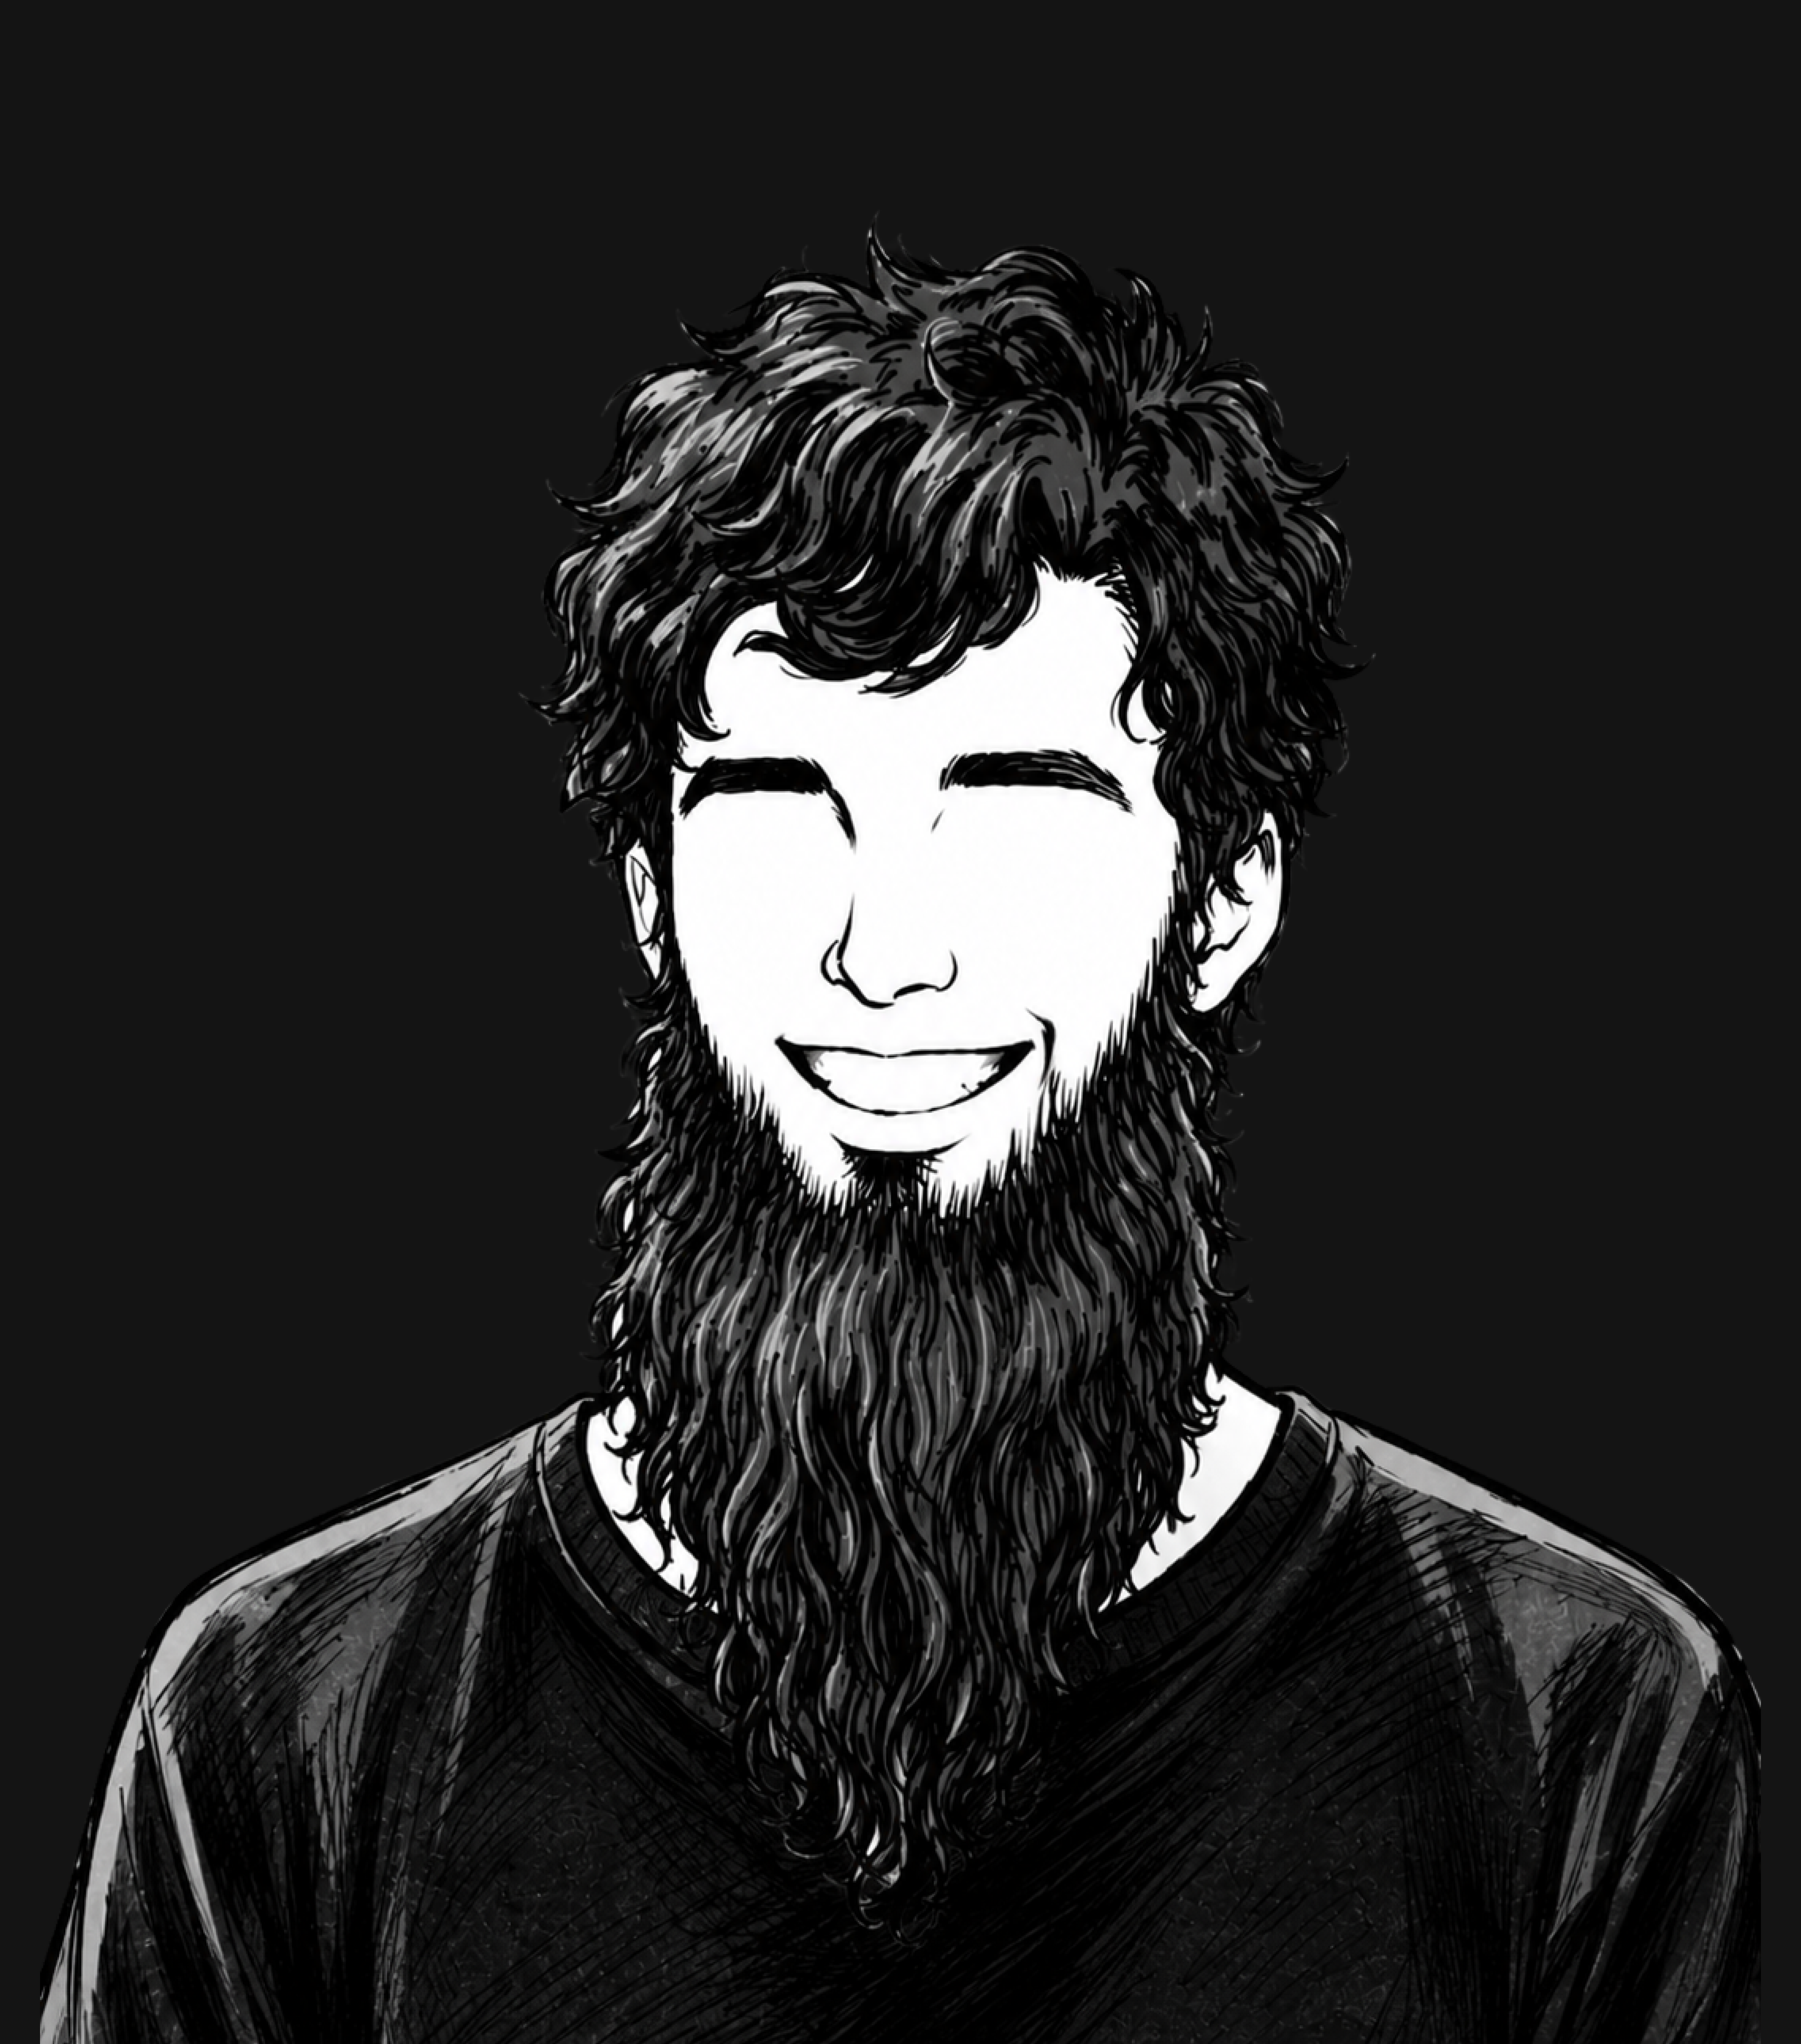
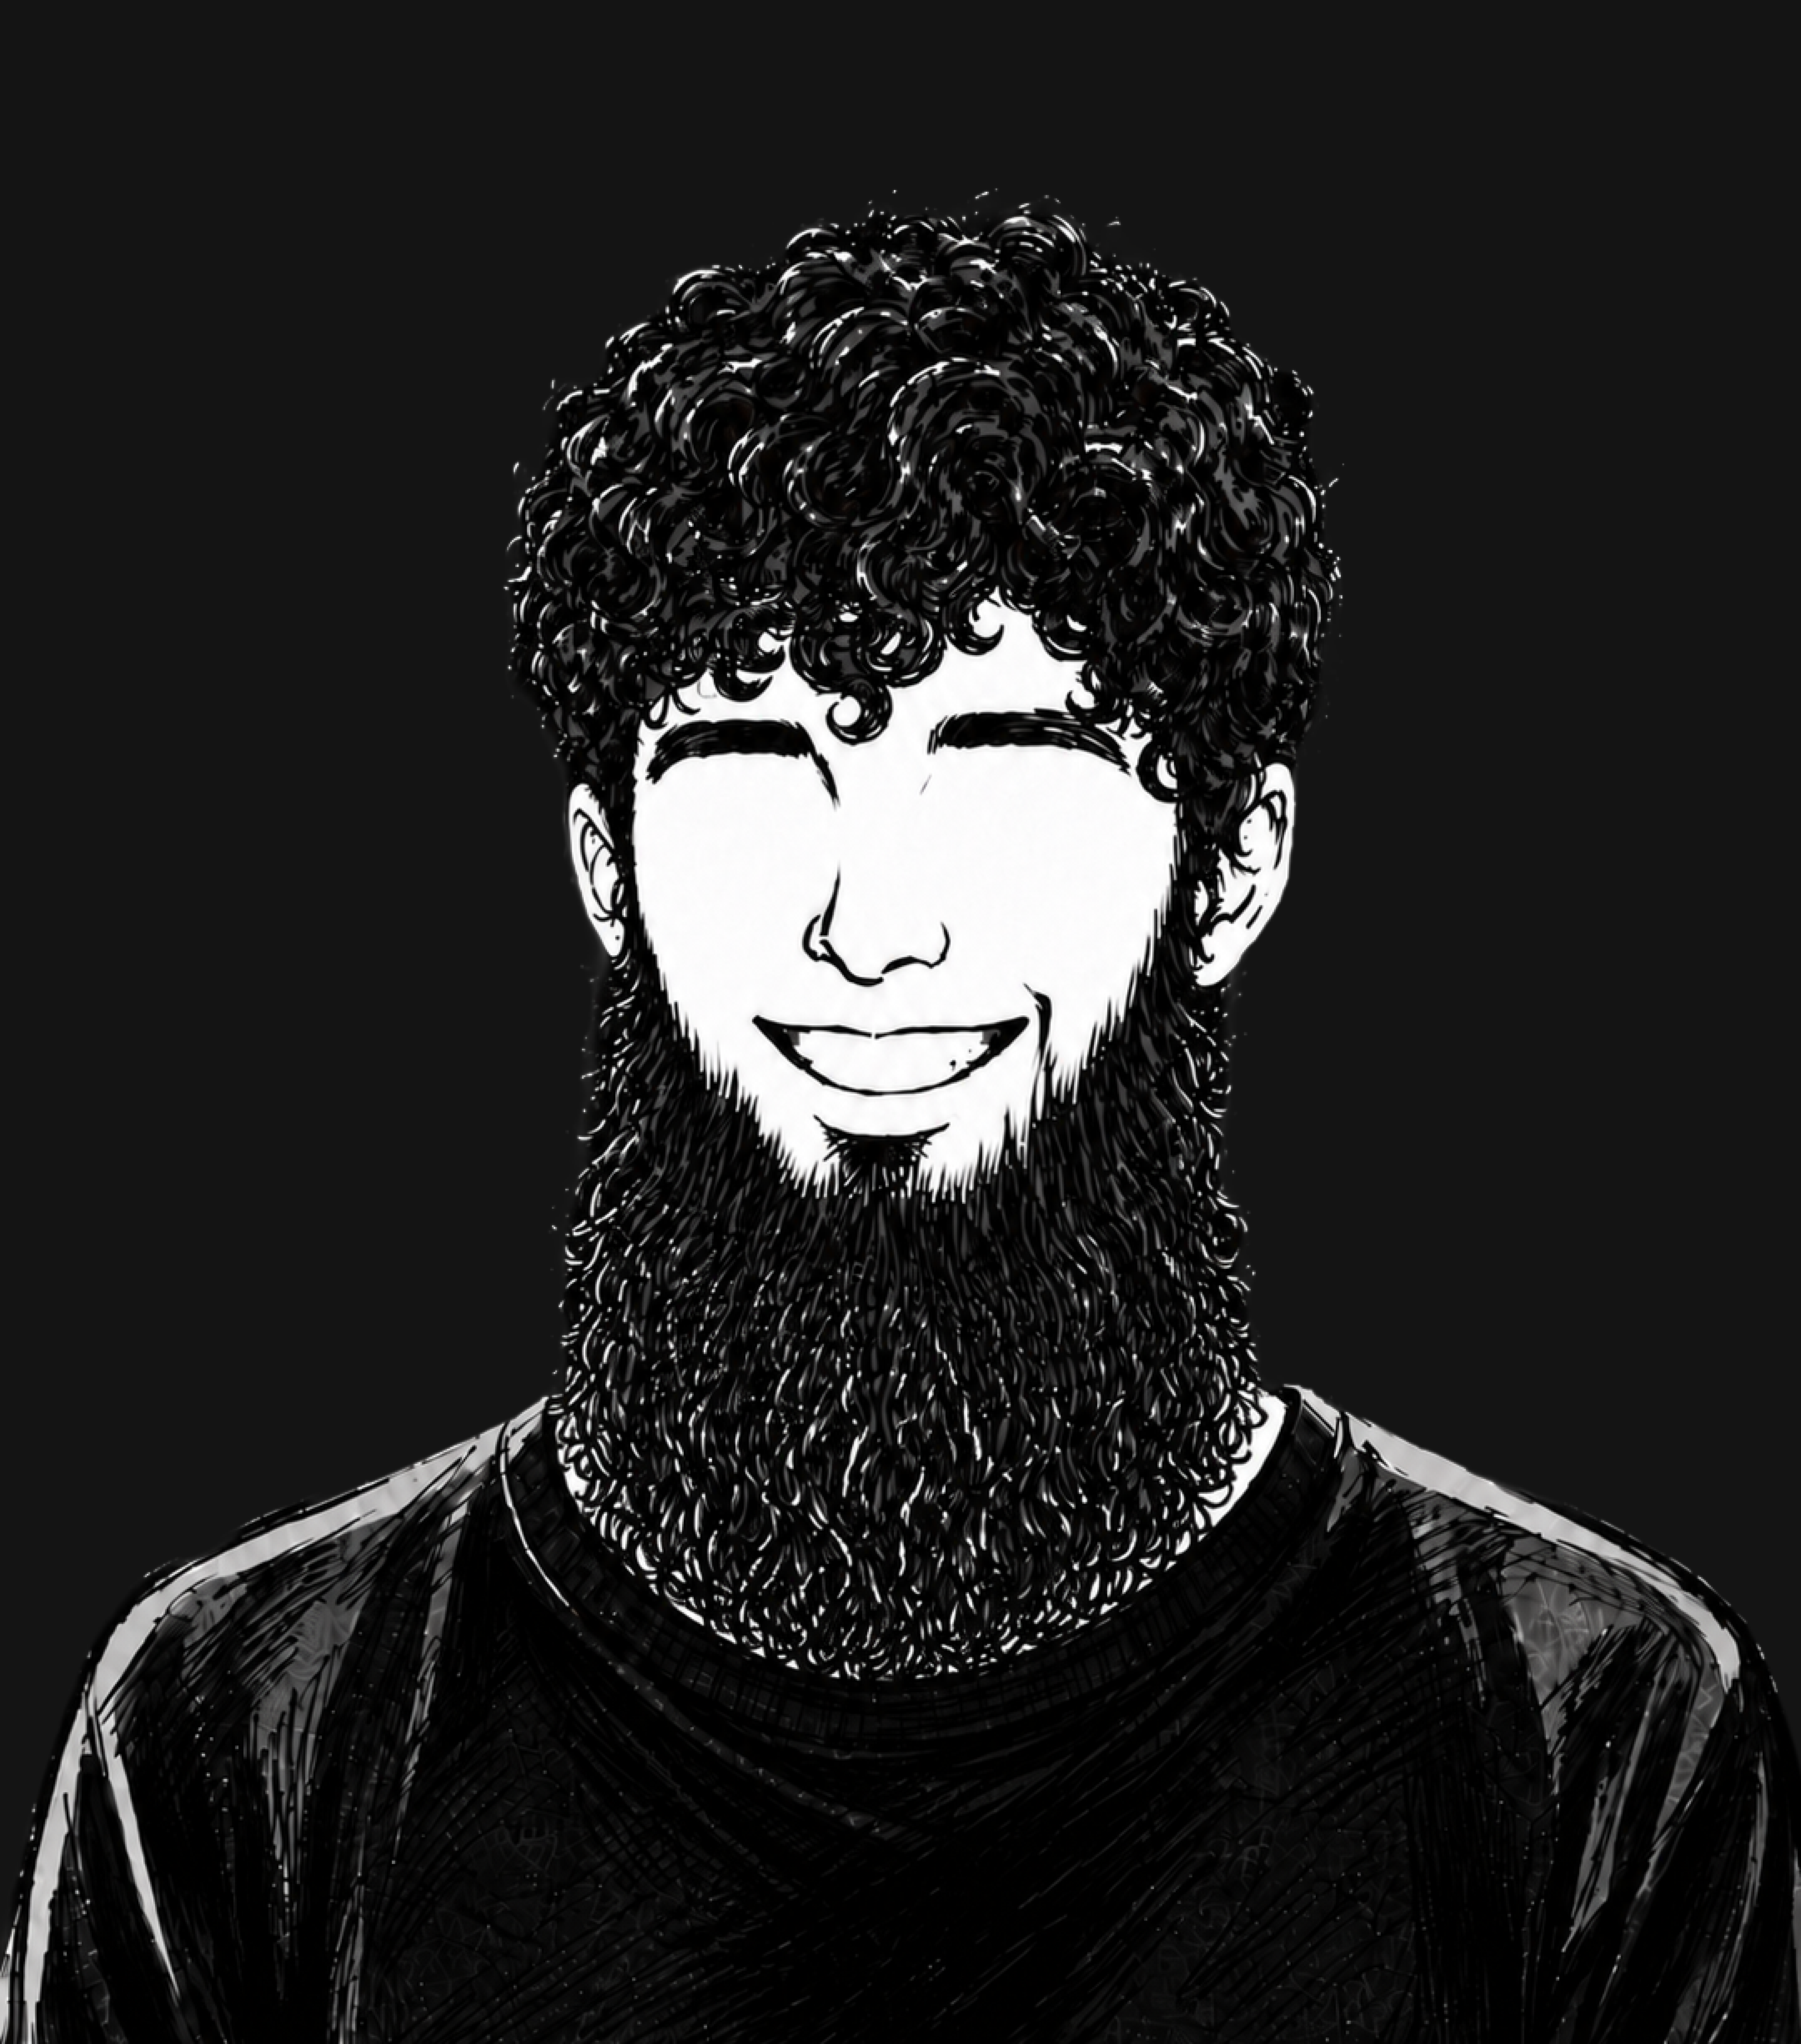
Update Faraz team photo to v2 + bust the browser cache
Swap public/images/team/Faraz.png with the newer image from
7. Team image/Faraz v2.png (3.6MB → 1.7MB) and append ?v=2 to the
component's photo URL so browsers refetch instead of serving the
stale cached image.

Changed region(s): [[0.0, 0.0936, 1.0, 1.0], [0.375, 0.936, 0.4062, 0.9672], [0.3125, 0.9984, 0.3438, 1.0]]

diff --git a/components/AboutTeam.tsx b/components/AboutTeam.tsx
@@ -17,7 +17,7 @@ type Member = {
 const TEAM: Member[] = [
   {
     idx: '01', name: 'Muhammed Faraz Faizal', role: 'CHIEF BRAND OFFICER',
-    photo: '/images/team/Faraz.png', clearance: 'LVL-04', idNo: 'OTB-CBO-001', dept: 'BRAND',
+    photo: '/images/team/Faraz.png?v=2', clearance: 'LVL-04', idNo: 'OTB-CBO-001', dept: 'BRAND',
     socials: [{ label: 'INSTAGRAM ↗', url: '#' }, { label: 'LINKEDIN ↗', url: '#' }]
   },
   {